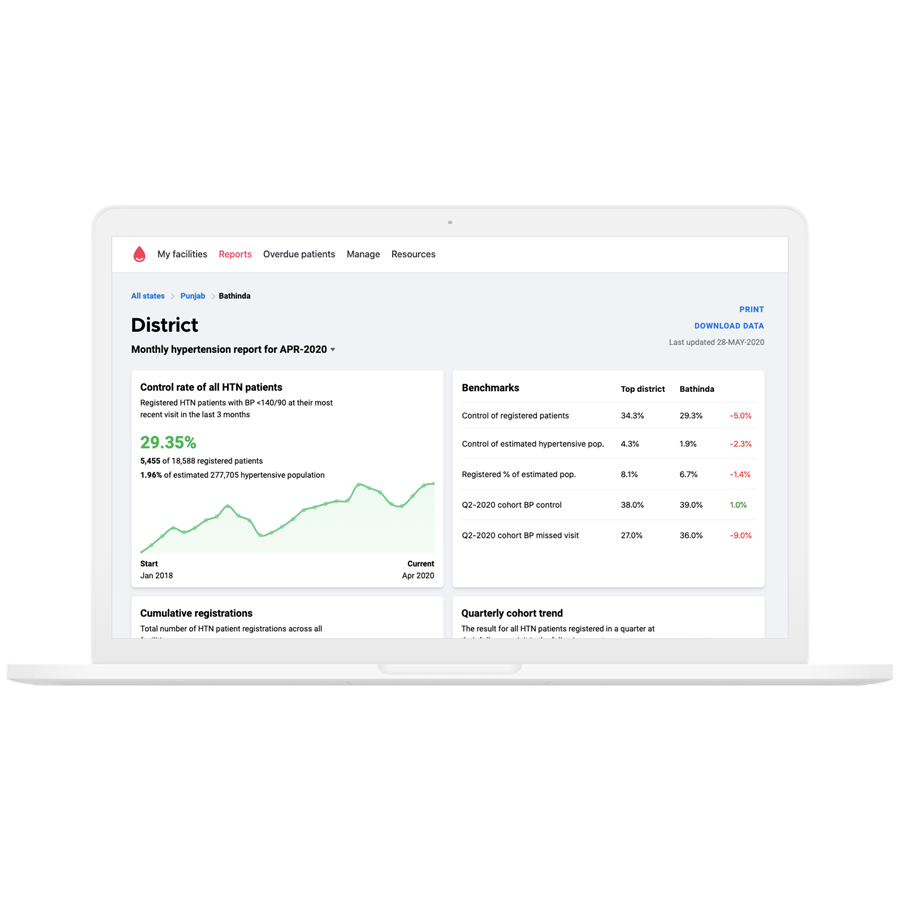
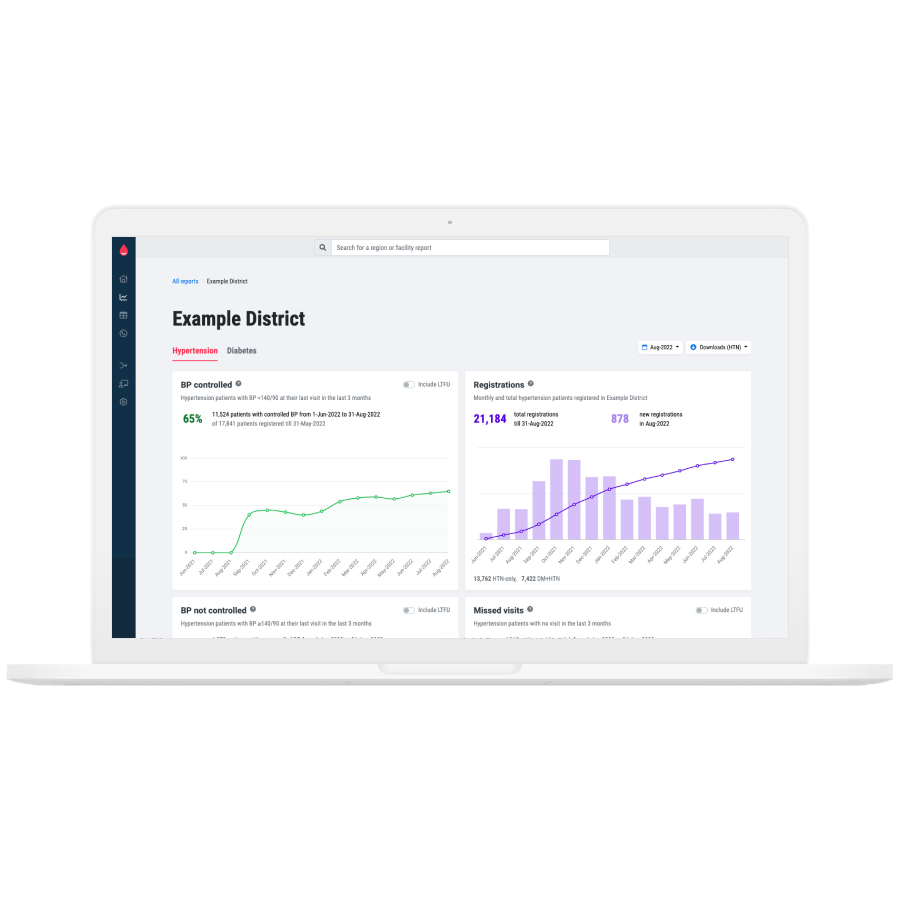
Site updated to d4fcaed

diff --git a/hi/about/index.html b/hi/about/index.html
@@ -104,15 +104,15 @@
 <h2>About the project</h2>
 <p>Simple is now used in hospitals of all sizes in India, Bangladesh, Ethiopia, and Sri Lanka. In many facilities, clinicians see more than 100 patients each day, so ease-of-use and high performance are key.</p>
 <p class="icons"> 
-  <i class="fas fa-hospital"></i> <strong>10,543 active<sup>*</sup> public health facilities</strong><br>
+  <i class="fas fa-hospital"></i> <strong>translation missing: hiactive_facilities_indiatranslation missing: hiactive_facilities_bdtranslation missing: hiactive_facilities_sltranslation missing: hiactive_facilities_et active<sup>*</sup> public health facilities</strong><br>
   <small>from district hospitals to community clinics</small>
 </p>
 <p class="icons">
-  <i class="far fa-users"></i> <strong>2,476,902 patients</strong><br>
+  <i class="far fa-users"></i> <strong>translation missing: hitotal_patients_indiatranslation missing: hitotal_patients_bdtranslation missing: hitotal_patients_sltranslation missing: hitotal_patients_et patients</strong><br>
   <small>with hypertension managed in Simple</small>
 </p>
 <p class="icons">
-  <i class="far fa-heart"></i> <strong>11,554,750 BPs recorded</strong><br>
+  <i class="far fa-heart"></i> <strong>translation missing: hitotal_BP_checks_indiatranslation missing: hitotal_BP_checks_bdtranslation missing: hitotal_BP_checks_sltranslation missing: hitotal_BP_checks_et BPs recorded</strong><br>
   <small>since the program started</small>
 </p> 
 <p class="icons">
@@ -123,7 +123,7 @@
   <i class="far fa-stopwatch"></i> <strong>73 sec registration</strong><br>
   <small>median time to register a new patient in Simple</small>
 </p>
-<p><small>** Data updated 1-Aug-2022</small><br><small>* patients recorded at a facility in last 30 days</small></p>
+<p><small>* patients recorded at a facility in last 30 days</small><br/><small>** Data updated translation missing: hi.date_stats_updated</small></p>
 <p>Simple had strong uptake in public health facilities in India, Bangladesh, Ethiopia, and Sri Lanka. Healthcare workers appreciate that Simple is easy to learn, simple to use, and takes up very little data. In recent surveys, clinicians gave Simple a 4.6/5 star rating.
 <span style="display: block; padding-top: 8px;"><i class="fas fa-star" style="color: #FF3355;"></i><i class="fas fa-star" style="color: #FF3355;"></i><i class="fas fa-star" style="color: #FF3355;"></i><i class="fas fa-star" style="color: #FF3355;"></i><i class="fas fa-star-half-alt" style="color: #FF3355;"></i></span></p>
 

diff --git a/pn/about/index.html b/pn/about/index.html
@@ -98,15 +98,15 @@
 <h2>About the project</h2>
 <p>Simple is now used in hospitals of all sizes in India, Bangladesh, Ethiopia, and Sri Lanka. In many facilities, clinicians see more than 100 patients each day, so ease-of-use and high performance are key.</p>
 <p class="icons"> 
-  <i class="fas fa-hospital"></i> <strong>10,543 active<sup>*</sup> public health facilities</strong><br>
+  <i class="fas fa-hospital"></i> <strong>translation missing: pnactive_facilities_indiatranslation missing: pnactive_facilities_bdtranslation missing: pnactive_facilities_sltranslation missing: pnactive_facilities_et active<sup>*</sup> public health facilities</strong><br>
   <small>from district hospitals to community clinics</small>
 </p>
 <p class="icons">
-  <i class="far fa-users"></i> <strong>2,476,902 patients</strong><br>
+  <i class="far fa-users"></i> <strong>translation missing: pntotal_patients_indiatranslation missing: pntotal_patients_bdtranslation missing: pntotal_patients_sltranslation missing: pntotal_patients_et patients</strong><br>
   <small>with hypertension managed in Simple</small>
 </p>
 <p class="icons">
-  <i class="far fa-heart"></i> <strong>11,554,750 BPs recorded</strong><br>
+  <i class="far fa-heart"></i> <strong>translation missing: pntotal_BP_checks_indiatranslation missing: pntotal_BP_checks_bdtranslation missing: pntotal_BP_checks_sltranslation missing: pntotal_BP_checks_et BPs recorded</strong><br>
   <small>since the program started</small>
 </p> 
 <p class="icons">
@@ -117,7 +117,7 @@
   <i class="far fa-stopwatch"></i> <strong>73 sec registration</strong><br>
   <small>median time to register a new patient in Simple</small>
 </p>
-<p><small>** Data updated 1-Aug-2022</small><br><small>* patients recorded at a facility in last 30 days</small></p>
+<p><small>* patients recorded at a facility in last 30 days</small><br/><small>** Data updated translation missing: pn.date_stats_updated</small></p>
 <p>Simple had strong uptake in public health facilities in India, Bangladesh, Ethiopia, and Sri Lanka. Healthcare workers appreciate that Simple is easy to learn, simple to use, and takes up very little data. In recent surveys, clinicians gave Simple a 4.6/5 star rating.
 <span style="display: block; padding-top: 8px;"><i class="fas fa-star" style="color: #FF3355;"></i><i class="fas fa-star" style="color: #FF3355;"></i><i class="fas fa-star" style="color: #FF3355;"></i><i class="fas fa-star" style="color: #FF3355;"></i><i class="fas fa-star-half-alt" style="color: #FF3355;"></i></span></p>
 

diff --git a/zh/about/index.html b/zh/about/index.html
@@ -98,15 +98,15 @@
 <h2>About the project</h2>
 <p>Simple is now used in hospitals of all sizes in India, Bangladesh, Ethiopia, and Sri Lanka. In many facilities, clinicians see more than 100 patients each day, so ease-of-use and high performance are key.</p>
 <p class="icons"> 
-  <i class="fas fa-hospital"></i> <strong>10,543 active<sup>*</sup> public health facilities</strong><br>
+  <i class="fas fa-hospital"></i> <strong>translation missing: zhactive_facilities_indiatranslation missing: zhactive_facilities_bdtranslation missing: zhactive_facilities_sltranslation missing: zhactive_facilities_et active<sup>*</sup> public health facilities</strong><br>
   <small>from district hospitals to community clinics</small>
 </p>
 <p class="icons">
-  <i class="far fa-users"></i> <strong>2,476,902 patients</strong><br>
+  <i class="far fa-users"></i> <strong>translation missing: zhtotal_patients_indiatranslation missing: zhtotal_patients_bdtranslation missing: zhtotal_patients_sltranslation missing: zhtotal_patients_et patients</strong><br>
   <small>with hypertension managed in Simple</small>
 </p>
 <p class="icons">
-  <i class="far fa-heart"></i> <strong>11,554,750 BPs recorded</strong><br>
+  <i class="far fa-heart"></i> <strong>translation missing: zhtotal_BP_checks_indiatranslation missing: zhtotal_BP_checks_bdtranslation missing: zhtotal_BP_checks_sltranslation missing: zhtotal_BP_checks_et BPs recorded</strong><br>
   <small>since the program started</small>
 </p> 
 <p class="icons">
@@ -117,7 +117,7 @@
   <i class="far fa-stopwatch"></i> <strong>73 sec registration</strong><br>
   <small>median time to register a new patient in Simple</small>
 </p>
-<p><small>** Data updated 1-Aug-2022</small><br><small>* patients recorded at a facility in last 30 days</small></p>
+<p><small>* patients recorded at a facility in last 30 days</small><br/><small>** Data updated translation missing: zh.date_stats_updated</small></p>
 <p>Simple had strong uptake in public health facilities in India, Bangladesh, Ethiopia, and Sri Lanka. Healthcare workers appreciate that Simple is easy to learn, simple to use, and takes up very little data. In recent surveys, clinicians gave Simple a 4.6/5 star rating.
 <span style="display: block; padding-top: 8px;"><i class="fas fa-star" style="color: #FF3355;"></i><i class="fas fa-star" style="color: #FF3355;"></i><i class="fas fa-star" style="color: #FF3355;"></i><i class="fas fa-star" style="color: #FF3355;"></i><i class="fas fa-star-half-alt" style="color: #FF3355;"></i></span></p>
 

diff --git a/hi/screens/index.html b/hi/screens/index.html
@@ -193,24 +193,21 @@
     <a href="../../images/screens/dashboard-home.png" class="dashboard-screen-wrapper">
         <span class="title"><strong>Dashboard home</strong></span>
         <img src="../../images/screens/dashboard-home.png" alt="">
-        <span class="desc">Managers can oversee new user permissions and access all districts</span>
+        <span class="desc">Managers can oversee new health worker requests, access data for all districts, see recent Simple updates and find tech team office hours.</span>
         <i class="fas fa-search-plus"></i>
     </a>
-    
-    <a href="../../images/screens/dashboard-district-view.png" class="dashboard-screen-wrapper">
-        <span class="title"><strong>Dashboard district view</strong></span>
-        <img src="../../images/screens/dashboard-district-view.png" alt="">
-        <span class="desc">Oversee hypertension control rates, lost-to-follow-up rates, and compare facility performance.</span>
+    <a href="../../images/screens/dashboard-reports-bp.png" class="dashboard-screen-wrapper">
+        <span class="title"><strong>Dashboard district view for hypertension</strong></span>
+        <img src="../../images/screens/dashboard-reports-bp-cropped.png" alt="">
+        <span class="desc">Oversee hypertension control rates, registrations, missed visits, population coverage, lost-to-follow-up rates and compare facility performance.</span>
         <i class="fas fa-search-plus"></i>
     </a>
-    
-    <a href="../../images/screens/dashboard-facility-view.png" class="dashboard-screen-wrapper">
-        <span class="title"><strong>Dashboard facility view</strong></span>
-        <img src="../../images/screens/dashboard-facility-view.png" alt="">
-        <span class="desc">See hypertension control rate performance and each healthcare worker's activity. Also view data entry log of BPs added at this facility.</span>
+    <a href="../../images/screens/dashboard-overdue.png" class="dashboard-screen-wrapper">
+        <span class="title"><strong>Dashboard overdue patients list</strong></span>
+        <img src="../../images/screens/dashboard-overdue.png" alt="">
+        <span class="desc">A line list of patients that are overdue for their appointment.</span>
         <i class="fas fa-search-plus"></i>
     </a>
-    
 
 <br style="clear: both;">
     </div>

diff --git a/pn/screens/index.html b/pn/screens/index.html
@@ -187,24 +187,21 @@
     <a href="../../images/screens/dashboard-home.png" class="dashboard-screen-wrapper">
         <span class="title"><strong>Dashboard home</strong></span>
         <img src="../../images/screens/dashboard-home.png" alt="">
-        <span class="desc">Managers can oversee new user permissions and access all districts</span>
+        <span class="desc">Managers can oversee new health worker requests, access data for all districts, see recent Simple updates and find tech team office hours.</span>
         <i class="fas fa-search-plus"></i>
     </a>
-    
-    <a href="../../images/screens/dashboard-district-view.png" class="dashboard-screen-wrapper">
-        <span class="title"><strong>Dashboard district view</strong></span>
-        <img src="../../images/screens/dashboard-district-view.png" alt="">
-        <span class="desc">Oversee hypertension control rates, lost-to-follow-up rates, and compare facility performance.</span>
+    <a href="../../images/screens/dashboard-reports-bp.png" class="dashboard-screen-wrapper">
+        <span class="title"><strong>Dashboard district view for hypertension</strong></span>
+        <img src="../../images/screens/dashboard-reports-bp-cropped.png" alt="">
+        <span class="desc">Oversee hypertension control rates, registrations, missed visits, population coverage, lost-to-follow-up rates and compare facility performance.</span>
         <i class="fas fa-search-plus"></i>
     </a>
-    
-    <a href="../../images/screens/dashboard-facility-view.png" class="dashboard-screen-wrapper">
-        <span class="title"><strong>Dashboard facility view</strong></span>
-        <img src="../../images/screens/dashboard-facility-view.png" alt="">
-        <span class="desc">See hypertension control rate performance and each healthcare worker's activity. Also view data entry log of BPs added at this facility.</span>
+    <a href="../../images/screens/dashboard-overdue.png" class="dashboard-screen-wrapper">
+        <span class="title"><strong>Dashboard overdue patients list</strong></span>
+        <img src="../../images/screens/dashboard-overdue.png" alt="">
+        <span class="desc">A line list of patients that are overdue for their appointment.</span>
         <i class="fas fa-search-plus"></i>
     </a>
-    
 
 <br style="clear: both;">
     </div>

diff --git a/zh/screens/index.html b/zh/screens/index.html
@@ -187,24 +187,21 @@
     <a href="../../images/screens/dashboard-home.png" class="dashboard-screen-wrapper">
         <span class="title"><strong>Dashboard home</strong></span>
         <img src="../../images/screens/dashboard-home.png" alt="">
-        <span class="desc">Managers can oversee new user permissions and access all districts</span>
+        <span class="desc">Managers can oversee new health worker requests, access data for all districts, see recent Simple updates and find tech team office hours.</span>
         <i class="fas fa-search-plus"></i>
     </a>
-    
-    <a href="../../images/screens/dashboard-district-view.png" class="dashboard-screen-wrapper">
-        <span class="title"><strong>Dashboard district view</strong></span>
-        <img src="../../images/screens/dashboard-district-view.png" alt="">
-        <span class="desc">Oversee hypertension control rates, lost-to-follow-up rates, and compare facility performance.</span>
+    <a href="../../images/screens/dashboard-reports-bp.png" class="dashboard-screen-wrapper">
+        <span class="title"><strong>Dashboard district view for hypertension</strong></span>
+        <img src="../../images/screens/dashboard-reports-bp-cropped.png" alt="">
+        <span class="desc">Oversee hypertension control rates, registrations, missed visits, population coverage, lost-to-follow-up rates and compare facility performance.</span>
         <i class="fas fa-search-plus"></i>
     </a>
-    
-    <a href="../../images/screens/dashboard-facility-view.png" class="dashboard-screen-wrapper">
-        <span class="title"><strong>Dashboard facility view</strong></span>
-        <img src="../../images/screens/dashboard-facility-view.png" alt="">
-        <span class="desc">See hypertension control rate performance and each healthcare worker's activity. Also view data entry log of BPs added at this facility.</span>
+    <a href="../../images/screens/dashboard-overdue.png" class="dashboard-screen-wrapper">
+        <span class="title"><strong>Dashboard overdue patients list</strong></span>
+        <img src="../../images/screens/dashboard-overdue.png" alt="">
+        <span class="desc">A line list of patients that are overdue for their appointment.</span>
         <i class="fas fa-search-plus"></i>
     </a>
-    
 
 <br style="clear: both;">
     </div>

diff --git a/screens/index.html b/screens/index.html
@@ -183,24 +183,21 @@
     <a href="../images/screens/dashboard-home.png" class="dashboard-screen-wrapper">
         <span class="title"><strong>Dashboard home</strong></span>
         <img src="../images/screens/dashboard-home.png" alt="">
-        <span class="desc">Managers can oversee new user permissions and access all districts</span>
+        <span class="desc">Managers can oversee new health worker requests, access data for all districts, see recent Simple updates and find tech team office hours.</span>
         <i class="fas fa-search-plus"></i>
     </a>
-    
-    <a href="../images/screens/dashboard-district-view.png" class="dashboard-screen-wrapper">
-        <span class="title"><strong>Dashboard district view</strong></span>
-        <img src="../images/screens/dashboard-district-view.png" alt="">
-        <span class="desc">Oversee hypertension control rates, lost-to-follow-up rates, and compare facility performance.</span>
+    <a href="../images/screens/dashboard-reports-bp.png" class="dashboard-screen-wrapper">
+        <span class="title"><strong>Dashboard district view for hypertension</strong></span>
+        <img src="../images/screens/dashboard-reports-bp-cropped.png" alt="">
+        <span class="desc">Oversee hypertension control rates, registrations, missed visits, population coverage, lost-to-follow-up rates and compare facility performance.</span>
         <i class="fas fa-search-plus"></i>
     </a>
-    
-    <a href="../images/screens/dashboard-facility-view.png" class="dashboard-screen-wrapper">
-        <span class="title"><strong>Dashboard facility view</strong></span>
-        <img src="../images/screens/dashboard-facility-view.png" alt="">
-        <span class="desc">See hypertension control rate performance and each healthcare worker's activity. Also view data entry log of BPs added at this facility.</span>
+    <a href="../images/screens/dashboard-overdue.png" class="dashboard-screen-wrapper">
+        <span class="title"><strong>Dashboard overdue patients list</strong></span>
+        <img src="../images/screens/dashboard-overdue.png" alt="">
+        <span class="desc">A line list of patients that are overdue for their appointment.</span>
         <i class="fas fa-search-plus"></i>
     </a>
-    
 
 <br style="clear: both;">
     </div>

diff --git a/about/index.html b/about/index.html
@@ -94,15 +94,15 @@
 <h2>About the project</h2>
 <p>Simple is now used in hospitals of all sizes in India, Bangladesh, Ethiopia, and Sri Lanka. In many facilities, clinicians see more than 100 patients each day, so ease-of-use and high performance are key.</p>
 <p class="icons"> 
-  <i class="fas fa-hospital"></i> <strong>10,543 active<sup>*</sup> public health facilities</strong><br>
+  <i class="fas fa-hospital"></i> <strong>10,712 active<sup>*</sup> public health facilities</strong><br>
   <small>from district hospitals to community clinics</small>
 </p>
 <p class="icons">
-  <i class="far fa-users"></i> <strong>2,476,902 patients</strong><br>
+  <i class="far fa-users"></i> <strong>2,628,775 patients</strong><br>
   <small>with hypertension managed in Simple</small>
 </p>
 <p class="icons">
-  <i class="far fa-heart"></i> <strong>11,554,750 BPs recorded</strong><br>
+  <i class="far fa-heart"></i> <strong>12,784,408 BPs recorded</strong><br>
   <small>since the program started</small>
 </p> 
 <p class="icons">
@@ -113,7 +113,7 @@
   <i class="far fa-stopwatch"></i> <strong>73 sec registration</strong><br>
   <small>median time to register a new patient in Simple</small>
 </p>
-<p><small>** Data updated 1-Aug-2022</small><br><small>* patients recorded at a facility in last 30 days</small></p>
+<p><small>* patients recorded at a facility in last 30 days</small><br/><small>** Data updated 1-Sep-2022</small></p>
 <p>Simple had strong uptake in public health facilities in India, Bangladesh, Ethiopia, and Sri Lanka. Healthcare workers appreciate that Simple is easy to learn, simple to use, and takes up very little data. In recent surveys, clinicians gave Simple a 4.6/5 star rating.
 <span style="display: block; padding-top: 8px;"><i class="fas fa-star" style="color: #FF3355;"></i><i class="fas fa-star" style="color: #FF3355;"></i><i class="fas fa-star" style="color: #FF3355;"></i><i class="fas fa-star" style="color: #FF3355;"></i><i class="fas fa-star-half-alt" style="color: #FF3355;"></i></span></p>
 

diff --git a/hi/index.html b/hi/index.html
@@ -110,7 +110,7 @@
             
         </span>
 
-        <p>Simple is designed to support large-scale hypertension and diabetes management programs. The app is actively used in 10,543 public health facilities in India, Bangladesh, Ethiopia, and Sri Lanka to manage 2,476,902 patients with hypertension and diabetes &#8212; updated 1-Aug-2022.</p>
+        <p>Simple is designed to support large-scale hypertension and diabetes management programs. The app is actively used in translation missing: hiactive_facilities_indiatranslation missing: hiactive_facilities_bdtranslation missing: hiactive_facilities_sltranslation missing: hiactive_facilities_et public health facilities in India, Bangladesh, Ethiopia, and Sri Lanka to manage translation missing: hitotal_patients_indiatranslation missing: hitotal_patients_bdtranslation missing: hitotal_patients_sltranslation missing: hitotal_patients_et patients with hypertension and diabetes &#8212; updated translation missing: hi.date_stats_updated.</p>
         <p>Healthcare workers record every patient's visit in an app, managers receive daily reports to monitor progress, and patients can chart their own BPs and blood sugars.</p>
         <p>In 2022, Simple was <a href="/blog/simple-digital-public-goods/">recognized as Digital Public Good</a> by the <a href="https://digitalpublicgoods.net/">Digital Public Goods Alliance</a>.</p>
       

diff --git a/pn/index.html b/pn/index.html
@@ -104,7 +104,7 @@
             
         </span>
 
-        <p>Simple is designed to support large-scale hypertension and diabetes management programs. The app is actively used in 10,543 public health facilities in India, Bangladesh, Ethiopia, and Sri Lanka to manage 2,476,902 patients with hypertension and diabetes &#8212; updated 1-Aug-2022.</p>
+        <p>Simple is designed to support large-scale hypertension and diabetes management programs. The app is actively used in translation missing: pnactive_facilities_indiatranslation missing: pnactive_facilities_bdtranslation missing: pnactive_facilities_sltranslation missing: pnactive_facilities_et public health facilities in India, Bangladesh, Ethiopia, and Sri Lanka to manage translation missing: pntotal_patients_indiatranslation missing: pntotal_patients_bdtranslation missing: pntotal_patients_sltranslation missing: pntotal_patients_et patients with hypertension and diabetes &#8212; updated translation missing: pn.date_stats_updated.</p>
         <p>Healthcare workers record every patient's visit in an app, managers receive daily reports to monitor progress, and patients can chart their own BPs and blood sugars.</p>
         <p>In 2022, Simple was <a href="/blog/simple-digital-public-goods/">recognized as Digital Public Good</a> by the <a href="https://digitalpublicgoods.net/">Digital Public Goods Alliance</a>.</p>
       

diff --git a/zh/index.html b/zh/index.html
@@ -104,7 +104,7 @@
             
         </span>
 
-        <p>Simple is designed to support large-scale hypertension and diabetes management programs. The app is actively used in 10,543 public health facilities in India, Bangladesh, Ethiopia, and Sri Lanka to manage 2,476,902 patients with hypertension and diabetes &#8212; updated 1-Aug-2022.</p>
+        <p>Simple is designed to support large-scale hypertension and diabetes management programs. The app is actively used in translation missing: zhactive_facilities_indiatranslation missing: zhactive_facilities_bdtranslation missing: zhactive_facilities_sltranslation missing: zhactive_facilities_et public health facilities in India, Bangladesh, Ethiopia, and Sri Lanka to manage translation missing: zhtotal_patients_indiatranslation missing: zhtotal_patients_bdtranslation missing: zhtotal_patients_sltranslation missing: zhtotal_patients_et patients with hypertension and diabetes &#8212; updated translation missing: zh.date_stats_updated.</p>
         <p>Healthcare workers record every patient's visit in an app, managers receive daily reports to monitor progress, and patients can chart their own BPs and blood sugars.</p>
         <p>In 2022, Simple was <a href="/blog/simple-digital-public-goods/">recognized as Digital Public Good</a> by the <a href="https://digitalpublicgoods.net/">Digital Public Goods Alliance</a>.</p>
       

diff --git a/index.html b/index.html
@@ -100,7 +100,7 @@
             
         </span>
 
-        <p>Simple is designed to support large-scale hypertension and diabetes management programs. The app is actively used in 10,543 public health facilities in India, Bangladesh, Ethiopia, and Sri Lanka to manage 2,476,902 patients with hypertension and diabetes &#8212; updated 1-Aug-2022.</p>
+        <p>Simple is designed to support large-scale hypertension and diabetes management programs. The app is actively used in 10,712 public health facilities in India, Bangladesh, Ethiopia, and Sri Lanka to manage 2,628,775 patients with hypertension and diabetes &#8212; updated 1-Sep-2022.</p>
         <p>Healthcare workers record every patient's visit in an app, managers receive daily reports to monitor progress, and patients can chart their own BPs and blood sugars.</p>
         <p>In 2022, Simple was <a href="/blog/simple-digital-public-goods/">recognized as Digital Public Good</a> by the <a href="https://digitalpublicgoods.net/">Digital Public Goods Alliance</a>.</p>
       
